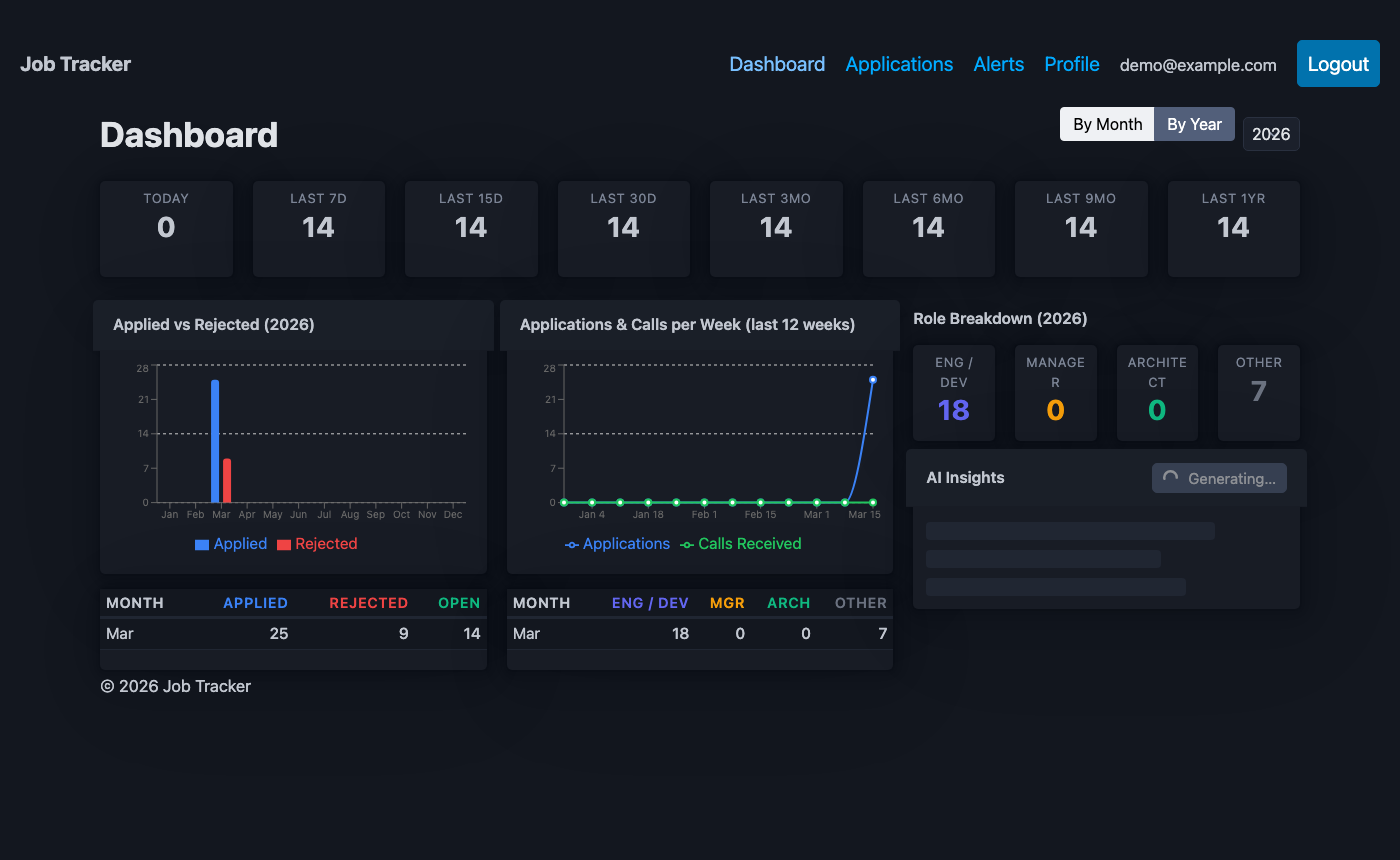
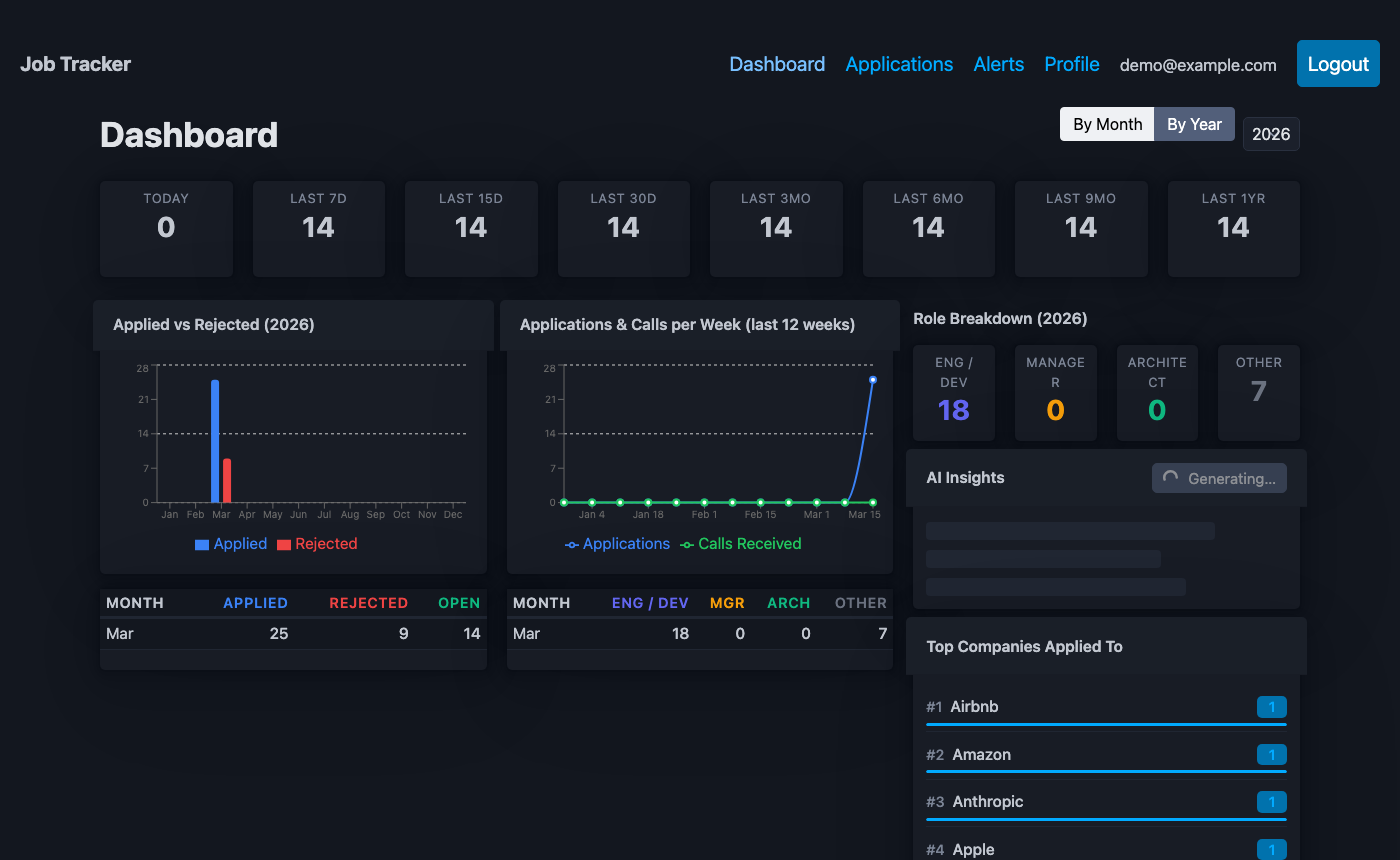
feat: add Top Companies widget to dashboard
Adds a new GET /v1/stats/companies endpoint (stats-service) that returns
the top 10 companies by application count, Redis-cached per user and
evicted by stats-listener on every Kafka event. The frontend renders a
ranked list with relative fill bars in Col 3 of the dashboard, directly
above the Ghosting Tracker. Also fixes screenshot.mjs to use sessionStorage
injection for auth (avoids CORS issue with headless Playwright) and updates
README with the new feature and refreshed dashboard screenshot.

Changed region(s): [[0.645, 0.786, 0.9214, 1.0], [0.6757, 0.7256, 0.7986, 0.7558], [0.0614, 0.786, 0.1843, 0.8163]]

diff --git a/frontend/src/components/dashboard/TopCompaniesWidget.tsx b/frontend/src/components/dashboard/TopCompaniesWidget.tsx
@@ -1,0 +1,70 @@
+import type { CompanyCount } from '../../api/stats'
+
+interface TopCompaniesWidgetProps {
+  companies: CompanyCount[] | undefined
+}
+
+export default function TopCompaniesWidget({ companies }: TopCompaniesWidgetProps) {
+  if (!companies || companies.length === 0) return null
+
+  const maxCount = companies[0].count
+
+  return (
+    <article style={{ padding: '0.65rem', marginBottom: 0 }}>
+      <header style={{ marginBottom: '0.75rem' }}>
+        <span style={{ fontSize: '0.78rem', fontWeight: 600 }}>Top Companies Applied To</span>
+      </header>
+      <ol style={{ listStyle: 'none', padding: 0, margin: 0 }}>
+        {companies.map((item, index) => (
+          <li
+            key={item.company}
+            style={{
+              padding: '0.28rem 0',
+              borderBottom: '1px solid var(--pico-muted-border-color)',
+            }}
+          >
+            <div style={{ display: 'flex', alignItems: 'center', justifyContent: 'space-between', marginBottom: '0.2rem' }}>
+              <span style={{ fontSize: '0.78rem', fontWeight: 500 }}>
+                <span style={{ color: 'var(--pico-muted-color)', marginRight: '0.4rem', fontSize: '0.72rem' }}>
+                  #{index + 1}
+                </span>
+                {item.company}
+              </span>
+              <span
+                style={{
+                  fontSize: '0.72rem',
+                  fontWeight: 600,
+                  background: 'var(--pico-primary-background)',
+                  color: 'var(--pico-primary)',
+                  borderRadius: '0.25rem',
+                  padding: '0 0.35rem',
+                  minWidth: '1.5rem',
+                  textAlign: 'center',
+                }}
+              >
+                {item.count}
+              </span>
+            </div>
+            <div
+              style={{
+                height: '3px',
+                borderRadius: '2px',
+                background: 'var(--pico-muted-border-color)',
+                overflow: 'hidden',
+              }}
+            >
+              <div
+                style={{
+                  height: '100%',
+                  width: `${Math.round((item.count / maxCount) * 100)}%`,
+                  background: 'var(--pico-primary)',
+                  borderRadius: '2px',
+                }}
+              />
+            </div>
+          </li>
+        ))}
+      </ol>
+    </article>
+  )
+}

diff --git a/frontend/src/routes/Dashboard.tsx b/frontend/src/routes/Dashboard.tsx
@@ -1,6 +1,6 @@
 import { useEffect, useState } from 'react'
 import { useQuery } from '@tanstack/react-query'
-import { getBreakdown, getInsights, getRoleCounts, getStaleApps, getTrend, type BreakdownResponse, type RoleCountsResponse, type StaleApp, type TrendPoint } from '../api/stats'
+import { getBreakdown, getInsights, getRoleCounts, getStaleApps, getTopCompanies, getTrend, type BreakdownResponse, type CompanyCount, type RoleCountsResponse, type StaleApp, type TrendPoint } from '../api/stats'
 import DashboardHeader from '../components/dashboard/DashboardHeader'
 import OpenWindowsCards from '../components/dashboard/OpenWindowsCards'
 import AppliedVsRejectedChart from '../components/dashboard/AppliedVsRejectedChart'
@@ -10,6 +10,7 @@ import RoleKpiCards from '../components/dashboard/RoleKpiCards'
 import AiInsightsCard from '../components/dashboard/AiInsightsCard'
 import GhostingTracker from '../components/dashboard/GhostingTracker'
 import { AlertsWidget } from '../components/dashboard/AlertsWidget'
+import TopCompaniesWidget from '../components/dashboard/TopCompaniesWidget'
 
 const USE_MOCK = (import.meta.env.VITE_USE_MOCK ?? 'true') === 'true'
 const CURRENT_YEAR = new Date().getFullYear()
@@ -72,6 +73,13 @@ export default function Dashboard() {
     queryFn: () => getTrend('week', 12),
     enabled: !USE_MOCK,
     staleTime: 5 * 60 * 1000,
+  })
+
+  const { data: topCompanies } = useQuery<CompanyCount[]>({
+    queryKey: ['top-companies'],
+    queryFn: getTopCompanies,
+    staleTime: 60_000,
+    enabled: !USE_MOCK,
   })
 
   const windows = data?.openWindows
@@ -140,6 +148,9 @@ export default function Dashboard() {
               insightsFetching={insightsFetching}
               refetchInsights={refetchInsights}
             />
+          )}
+          {!USE_MOCK && (
+            <TopCompaniesWidget companies={topCompanies} />
           )}
           {!USE_MOCK && (
             <GhostingTracker staleApps={staleApps} />

diff --git a/frontend/src/api/stats.ts b/frontend/src/api/stats.ts
@@ -117,3 +117,13 @@ export async function getStaleApps(): Promise<StaleApp[]> {
   const res = await httpStats.get<StaleApp[]>('/stats/stale')
   return res.data
 }
+
+export interface CompanyCount {
+  company: string
+  count: number
+}
+
+export async function getTopCompanies(): Promise<CompanyCount[]> {
+  const { data } = await httpStats.get<CompanyCount[]>('/stats/companies')
+  return data
+}

diff --git a/backend/stats-service/src/main/java/com/jobtracker/stats/config/CacheConfig.java b/backend/stats-service/src/main/java/com/jobtracker/stats/config/CacheConfig.java
@@ -4,6 +4,7 @@ import com.fasterxml.jackson.databind.ObjectMapper;
 import com.fasterxml.jackson.databind.SerializationFeature;
 import com.fasterxml.jackson.datatype.jsr310.JavaTimeModule;
 import com.jobtracker.stats.api.dto.BreakdownResponseDto;
+import com.jobtracker.stats.api.dto.CompanyCountDto;
 import com.jobtracker.stats.api.dto.InsightsDto;
 import com.jobtracker.stats.api.dto.RoleCountsResponseDto;
 import com.jobtracker.stats.api.dto.StatsSummaryDto;
@@ -18,6 +19,7 @@ import org.springframework.data.redis.serializer.Jackson2JsonRedisSerializer;
 import org.springframework.data.redis.serializer.StringRedisSerializer;
 
 import java.time.Duration;
+import java.util.List;
 
 import static org.springframework.data.redis.serializer.RedisSerializationContext.SerializationPair.fromSerializer;
 
@@ -30,6 +32,7 @@ public class CacheConfig {
     public static final String CACHE_BREAKDOWN = "stats-breakdown";
     public static final String CACHE_ROLES     = "stats-roles";
     public static final String CACHE_INSIGHTS  = "stats-insights";
+    public static final String CACHE_COMPANIES = "stats-companies";
 
     @Bean
     public RedisCacheManager cacheManager(RedisConnectionFactory cf) {
@@ -61,6 +64,10 @@ public class CacheConfig {
                         base.entryTtl(Duration.ofMinutes(30))
                             .serializeValuesWith(fromSerializer(
                                 new Jackson2JsonRedisSerializer<>(om, InsightsDto.class))))
+                .withCacheConfiguration(CACHE_COMPANIES,
+                        base.serializeValuesWith(fromSerializer(
+                                new Jackson2JsonRedisSerializer<>(om,
+                                        om.getTypeFactory().constructCollectionType(List.class, CompanyCountDto.class)))))
                 .build();
     }
 }

diff --git a/backend/stats-service/src/main/java/com/jobtracker/stats/service/StatsService.java b/backend/stats-service/src/main/java/com/jobtracker/stats/service/StatsService.java
@@ -2,6 +2,7 @@ package com.jobtracker.stats.service;
 
 import com.jobtracker.stats.api.dto.ActivityItemDto;
 import com.jobtracker.stats.api.dto.BreakdownResponseDto;
+import com.jobtracker.stats.api.dto.CompanyCountDto;
 import com.jobtracker.stats.api.dto.StaleAppDto;
 import com.jobtracker.stats.api.dto.BreakdownRowDto;
 import com.jobtracker.stats.api.dto.OpenWindowsDto;
@@ -228,6 +229,20 @@ public class StatsService {
             }
             return new RoleCountsResponseDto("year", null, rows);
         }
+    }
+
+    @Cacheable(cacheNames = CacheConfig.CACHE_COMPANIES, key = "#userId")
+    public List<CompanyCountDto> getTopCompanies(UUID userId) {
+        log.info("Serving top-companies query userId={}", userId);
+        queriesCounter.increment();
+        List<CompanyCountDto> result = new ArrayList<>();
+        jdbc.query(
+            "SELECT company, COUNT(*) AS cnt FROM applications_snapshot " +
+            "WHERE user_id = ? AND deleted_at IS NULL AND company IS NOT NULL " +
+            "GROUP BY company ORDER BY cnt DESC, company ASC LIMIT 10",
+            (RowCallbackHandler) rs -> result.add(new CompanyCountDto(rs.getString(1), rs.getLong(2))),
+            userId);
+        return result;
     }
 
     public List<StaleAppDto> getStaleApplications(UUID userId) {

diff --git a/backend/stats-service/src/main/java/com/jobtracker/stats/api/StatsController.java b/backend/stats-service/src/main/java/com/jobtracker/stats/api/StatsController.java
@@ -2,6 +2,7 @@ package com.jobtracker.stats.api;
 
 import com.jobtracker.stats.api.dto.ActivityItemDto;
 import com.jobtracker.stats.api.dto.BreakdownResponseDto;
+import com.jobtracker.stats.api.dto.CompanyCountDto;
 import com.jobtracker.stats.api.dto.StaleAppDto;
 import com.jobtracker.stats.api.dto.InsightsDto;
 import com.jobtracker.stats.api.dto.RoleCountsResponseDto;
@@ -76,6 +77,11 @@ public class StatsController {
     @GetMapping("/activity/{appId}")
     public List<ActivityItemDto> activityFeed(@PathVariable UUID appId) {
         return svc.getActivityFeed(currentUserId(), appId);
+    }
+
+    @GetMapping("/companies")
+    public List<CompanyCountDto> topCompanies() {
+        return svc.getTopCompanies(currentUserId());
     }
 
     @GetMapping("/stale")

diff --git a/backend/stats-listener/src/main/java/com/jobtracker/statslistener/listener/ApplicationEventListener.java b/backend/stats-listener/src/main/java/com/jobtracker/statslistener/listener/ApplicationEventListener.java
@@ -105,7 +105,7 @@ public class ApplicationEventListener {
 
     private void evictStatsCache(UUID userId) {
         String prefix = userId.toString() + ":";
-        for (String cacheName : new String[]{"stats-summary", "stats-trend", "stats-breakdown", "stats-roles"}) {
+        for (String cacheName : new String[]{"stats-summary", "stats-trend", "stats-breakdown", "stats-roles", "stats-companies"}) {
             var keys = redis.keys(cacheName + "::" + prefix + "*");
             if (keys != null && !keys.isEmpty()) {
                 redis.delete(keys);

diff --git a/backend/stats-service/src/main/java/com/jobtracker/stats/api/dto/CompanyCountDto.java b/backend/stats-service/src/main/java/com/jobtracker/stats/api/dto/CompanyCountDto.java
@@ -1,0 +1,3 @@
+package com.jobtracker.stats.api.dto;
+
+public record CompanyCountDto(String company, long count) {}

diff --git a/README.md b/README.md
@@ -164,7 +164,7 @@ This is the **Transactional Outbox Pattern** — Kafka being down never causes d
 - **Advanced filtering** — Filter applications by status, search (company/role), month, year, and call received; sort by apply date or date added; page-based pagination (20 per page)
 - **Activity Feed** — Each Application Detail page shows a live activity timeline. Every create, status update, and deletion is translated into a human-readable message (e.g. "Applied for SWE at Google via LinkedIn", "Status changed to OFFER") and stored in the `activity_feed` table. Powered by Kafka fan-out: a second consumer group (`activity-service`) runs in `stats-listener` alongside the existing `stats-service` group, tracking independent offsets on the same `application-events` topic — no producer changes required. Idempotent via a unique constraint on `(app_id, event_type, occurred_at)`
 - **AI Insights** — The Dashboard includes an "AI Insights" card powered by a locally-running LLM (Ollama + `qwen2.5:1.5b`). It aggregates all your stats data (30-day summary, 12-week trend, monthly breakdown, role distribution) and generates 3–5 concise, actionable coaching insights. Responses are cached in Redis for 30 minutes; a Refresh button busts the cache on demand. Fully offline — no API key required
-- **Analytics Dashboard** — By Month / By Year toggle with grouped Applied vs Rejected bar chart, summary table, and 7 open-window KPI cards (last 7d / 15d / 30d / 3mo / 6mo / 9mo / 1yr)
+- **Analytics Dashboard** — By Month / By Year toggle with grouped Applied vs Rejected bar chart, summary table, 7 open-window KPI cards (last 7d / 15d / 30d / 3mo / 6mo / 9mo / 1yr), and a **Top Companies** widget ranking the top 10 companies by application count with a relative fill bar for quick visual comparison
 - **Pre-computed aggregate tables** — `agg_monthly` and `agg_weekly` in `jt_stats` are maintained in-sync by stats-listener (recomputed atomically on every Kafka event); stats-service reads from these tables with indexed scans instead of live GROUP BY on the raw snapshot
 - **Redis caching** — All three stats endpoints (`/summary`, `/trend`, `/breakdown`) are cached in Redis with a 5-minute TTL, keyed per-user; the stats-listener evicts the affected user's cache keys immediately after processing each Kafka event, so the dashboard always reflects the latest data
 - **Idempotent writes** — All POST/PATCH endpoints require an `Idempotency-Key` header
@@ -257,6 +257,10 @@ Response: [{ id, eventType, message, occurredAt }]
 GET /v1/stats/stale
 Response: [{ appId, company, role, status, daysSinceLastEvent, flaggedAt, appliedAt }]
 # Returns applications with no status change for 14+ days (ghosted / stale)
+
+GET /v1/stats/companies
+Response: [{ company, count }]
+# Top 10 companies by non-deleted application count, descending; Redis-cached per user
 ```
 
 Swagger UI available at `http://localhost:8081/swagger-ui.html` and `http://localhost:8082/swagger-ui.html`.
